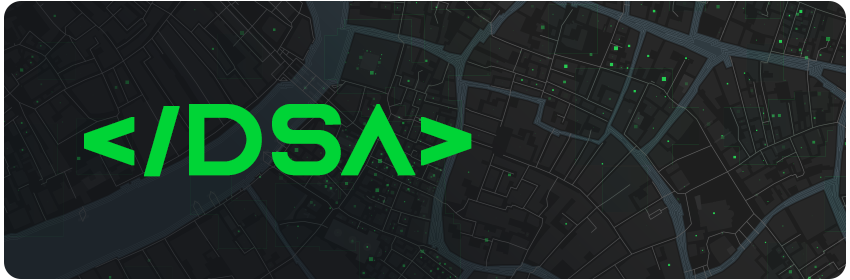
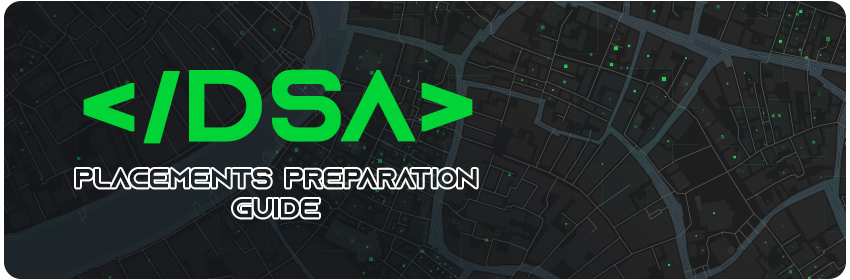
Updated Header Image and Added Python resource

Changed region(s): [[0.0918, 0.2286, 0.5812, 0.8]]

diff --git a/README.md b/README.md
@@ -68,6 +68,8 @@
 
 - [GFG Data Structures and Algorithms Course](https://practice.geeksforgeeks.org/courses/dsa-self-paced) (Buy it only if you can afford it. Covers most of the basic foundations and is worth the money :heavy_dollar_sign:. You can do well with online free resources as well.)
 
+- [Codebasics - Python 3 Programming Tutorials for Beginners](https://youtube.com/playlist?list=PLeo1K3hjS3uv5U-Lmlnucd7gqF-3ehIh0)
+
 
 ## Platforms :key:
 Do check out the solutions, editorials, and discussion once you solve or cannot solve the problem to understand the various approaches.
